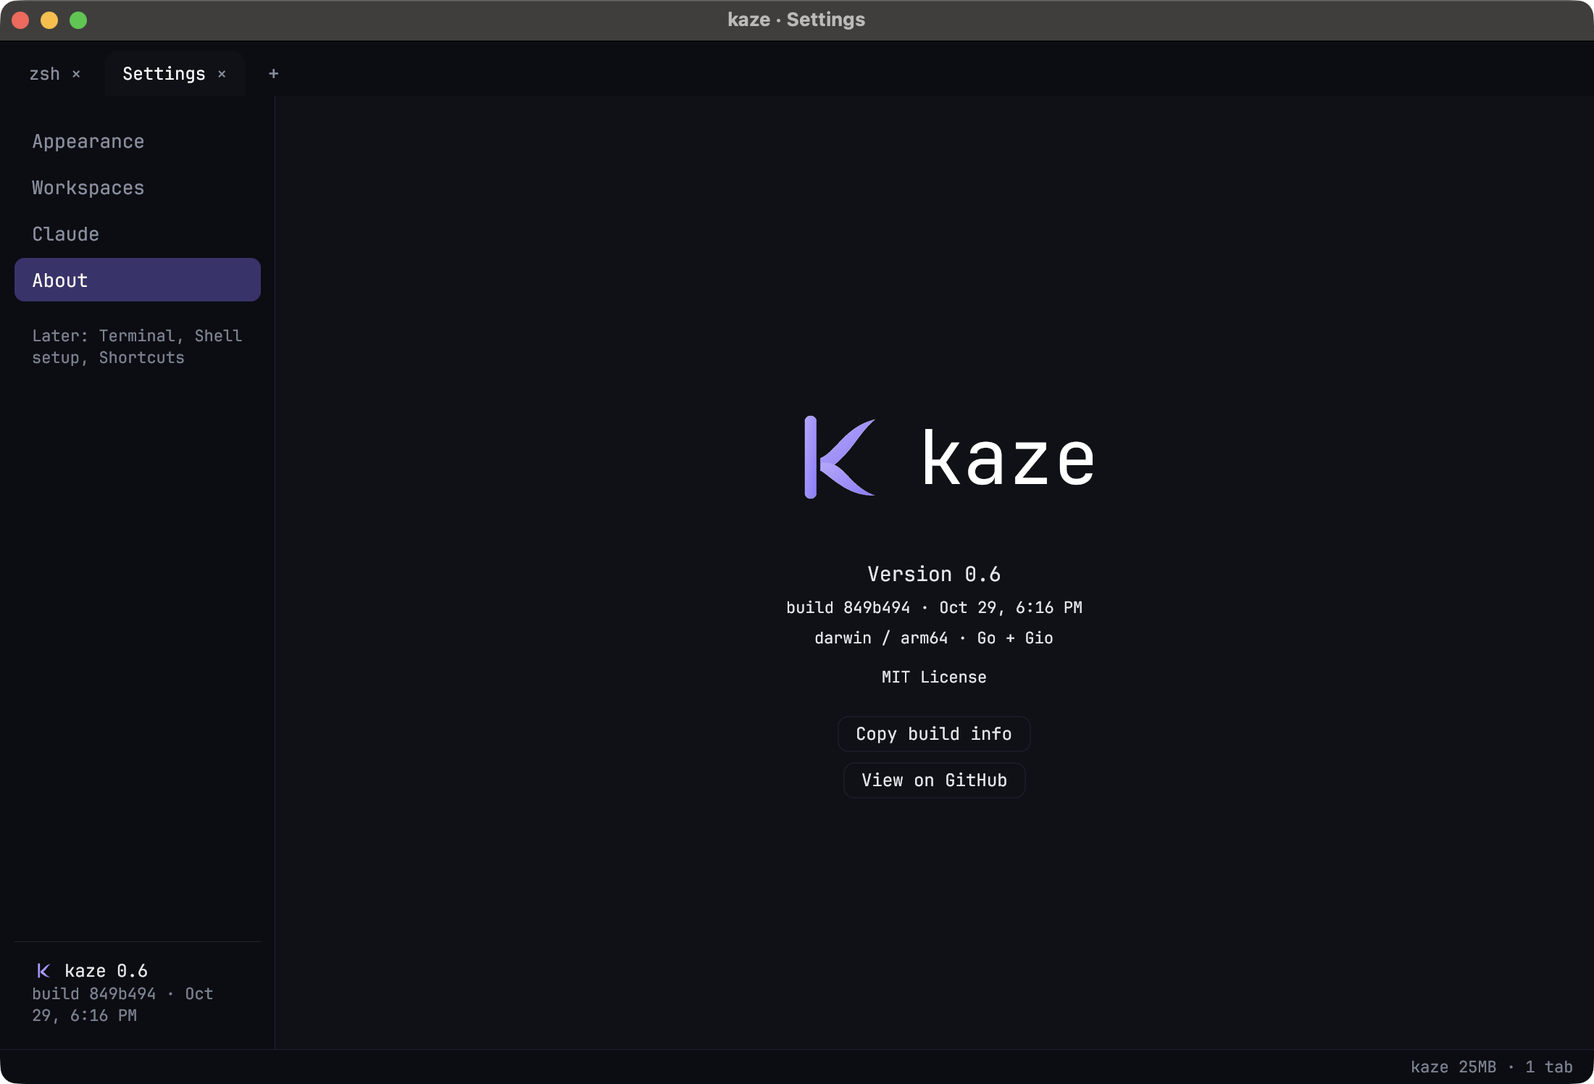
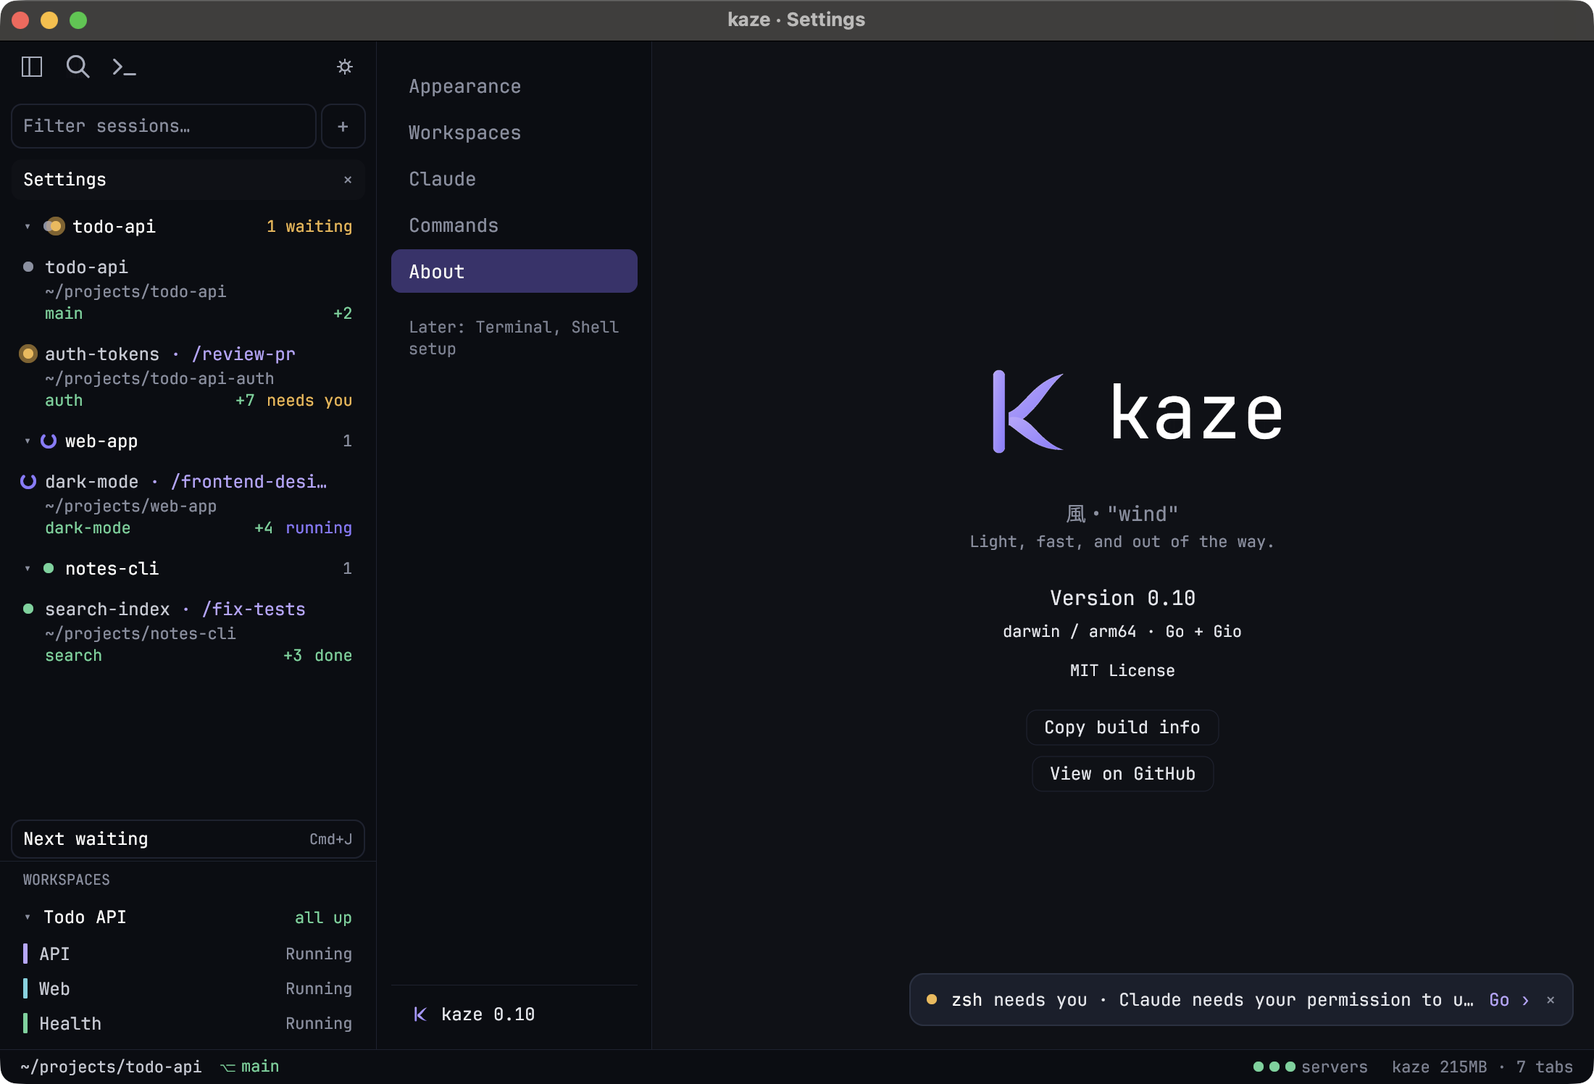
docs(site): Show the session sidebar, floating panes, scratch shell and palette

diff --git a/docs/index.html b/docs/index.html
@@ -4,8 +4,8 @@
   <meta charset="utf-8">
   <meta name="viewport" content="width=device-width, initial-scale=1">
   <meta name="color-scheme" content="dark">
-  <title>Kaze — Your whole workspace, one terminal</title>
-  <meta name="description" content="A small, open-source terminal for Windows and macOS. Launch project workspaces, follow Claude Code sessions, and know when you’re needed.">
+  <title>Kaze — Every Claude session, one terminal</title>
+  <meta name="description" content="A small, open-source terminal for macOS and Windows, built around Claude Code. A sidebar of your sessions, floating panes for your servers, and one key to find anything.">
   <link rel="icon" href="site-assets/kaze-icon.svg">
   <link rel="stylesheet" href="site-assets/site.css">
 </head>
@@ -14,24 +14,66 @@
 <header class="site-header">
   <div class="header-inner wrap">
     <a class="brand" href="#main" aria-label="Kaze home"><img src="site-assets/kaze-icon.svg" alt="" width="32" height="32"><span>kaze</span></a>
-    <nav aria-label="Main navigation"><a href="#workspaces">Workspaces</a><a href="#install">Build</a><a class="source-link" href="https://github.com/patrick-gogo/kaze-terminal">GitHub <span aria-hidden="true">↗</span></a></nav>
+    <nav aria-label="Main navigation"><a href="#sessions">Features</a><a href="#workspaces">Workspaces</a><a href="#install">Build</a><a class="source-link" href="https://github.com/patrick-gogo/kaze-terminal">GitHub <span aria-hidden="true">↗</span></a></nav>
   </div>
 </header>
 <main id="main">
   <section class="hero wrap" aria-labelledby="hero-title">
-    <h1 id="hero-title">One terminal.<br><span>Your whole workspace.</span></h1>
-    <p class="hero-copy">Open your project. Start your tools. Stay with the work.<br class="desktop-break"> A small terminal with saved workspaces and a soft spot for Claude Code.</p>
+    <h1 id="hero-title">Every Claude session.<br><span>One quiet terminal.</span></h1>
+    <p class="hero-copy">See which session needs you, which one is working and which one is done.<br class="desktop-break"> Keep your servers floating close by. Find anything with one key.</p>
     <div class="hero-actions"><a class="button primary" href="#install" data-platform="mac">Build for macOS <span aria-hidden="true">↗</span></a><a class="button secondary" href="https://github.com/patrick-gogo/kaze-terminal">View source <span aria-hidden="true">↗</span></a></div>
     <p class="platform-note">Also on <a href="#install" data-platform="windows">Windows</a><span aria-hidden="true">/</span>Go + Gio<span aria-hidden="true">/</span>MIT licensed</p>
-    <figure class="product">
-      <div class="product-caption"><div class="capture-switcher" role="group" aria-label="Product screenshots"><button type="button" data-shot="terminal" aria-pressed="true">Terminal</button><button type="button" data-shot="workspaces" aria-pressed="false">Workspaces</button><button type="button" data-shot="about" aria-pressed="false">About</button></div><span id="capture-description" aria-live="polite">Workspace tabs on macOS</span></div>
-      <div class="screenshot"><img id="product-shot" src="site-assets/kaze-terminal.png" alt="Kaze running on macOS: a four-tab demo workspace showing git history, passing Go tests and a file listing" width="2200" height="1496" fetchpriority="high"></div>
-      <figcaption>Captured from Kaze 0.6 on macOS. Demo workspace with real local command output.</figcaption>
+    <figure class="product" id="product">
+      <div class="product-caption"><div class="capture-switcher" role="group" aria-label="Product screenshots"><button type="button" data-shot="sessions" aria-pressed="true">Sessions</button><button type="button" data-shot="palette" aria-pressed="false">Palette</button><button type="button" data-shot="scratch" aria-pressed="false">Scratch shell</button><button type="button" data-shot="workspaces" aria-pressed="false">Workspaces</button><button type="button" data-shot="about" aria-pressed="false">About</button></div><span id="capture-description" aria-live="polite">The session sidebar with a server floating over a session</span></div>
+      <div class="screenshot"><img id="product-shot" src="site-assets/kaze-sessions.png" alt="Kaze on macOS: a sidebar of sessions marked needs you, running and done, with an API server's log floating over the todo-api session" width="2200" height="1496" fetchpriority="high"></div>
+      <figcaption>Captured from Kaze 0.10 on macOS, with demo projects and real local command output. <a class="caption-link" href="https://github.com/patrick-gogo/kaze-terminal/blob/main/docs/site-assets/SCREENSHOTS.md">How these were taken</a></figcaption>
     </figure>
   </section>
 
+  <section class="feature-section wrap" id="sessions" aria-labelledby="sessions-title">
+    <div class="section-intro"><h2 id="sessions-title">Built around the agent.<br><span>Still just a terminal.</span></h2><p>Run Claude Code in as many sessions as you like. Kaze keeps track,<br class="desktop-break"> so you only look when something needs you.</p></div>
+    <div class="feature-grid">
+      <article>
+        <span class="feature-symbol" aria-hidden="true">◐</span>
+        <h3>A sidebar of sessions.</h3>
+        <p>Sessions group by repo, worktrees included. Each row shows its folder, branch, the lines changed and the slash command it runs, plus a plain <b class="state needs">needs you</b>, <b class="state running">running</b> or <b class="state done">done</b>.</p>
+        <button type="button" class="show-shot" data-show="sessions">See the sidebar <span aria-hidden="true">↑</span></button>
+      </article>
+      <article>
+        <span class="feature-symbol" aria-hidden="true">⇥</span>
+        <h3>Jump to what’s waiting.</h3>
+        <p>Next waiting takes you to the next session that needs an answer, in sidebar order. A toast and an optional chime tell you when Claude asks, even while you work elsewhere.</p>
+        <a href="https://github.com/patrick-gogo/kaze-terminal#alerts-claude-code-hooks">Set up the hooks <span aria-hidden="true">↗</span></a>
+      </article>
+      <article>
+        <span class="feature-symbol" aria-hidden="true">▣</span>
+        <h3>Floating panes.</h3>
+        <p>Watch a server’s log without leaving your Claude session. Click a workspace member and it floats over the session: drag it, resize it, type into it, or expand it to the main view.</p>
+        <button type="button" class="show-shot" data-show="sessions">See a floating pane <span aria-hidden="true">↑</span></button>
+      </article>
+      <article>
+        <span class="feature-symbol" aria-hidden="true">›_</span>
+        <h3>A scratch shell, per session.</h3>
+        <p>Press <kbd>Ctrl</kbd> <kbd>`</kbd> for a quick shell in the session’s folder. Press it again to hide it; it keeps running, with its screen, until the session closes.</p>
+        <button type="button" class="show-shot" data-show="scratch">See the scratch shell <span aria-hidden="true">↑</span></button>
+      </article>
+      <article>
+        <span class="feature-symbol" aria-hidden="true">⌕</span>
+        <h3>One key finds everything.</h3>
+        <p><kbd>⌘</kbd> <kbd>K</kbd> opens the palette: waiting sessions first, then every session and server, your Claude Code skills and slash commands, and Kaze’s own actions.</p>
+        <button type="button" class="show-shot" data-show="palette">See the palette <span aria-hidden="true">↑</span></button>
+      </article>
+      <article>
+        <span class="feature-symbol" aria-hidden="true">▤</span>
+        <h3>Context in the status bar.</h3>
+        <p>Your folder and branch, your servers at a glance, and optional Claude plan and context usage. The useful details stay out of your output.</p>
+        <a href="https://github.com/patrick-gogo/kaze-terminal#claude-usage-in-the-status-bar">See the usage setup <span aria-hidden="true">↗</span></a>
+      </article>
+    </div>
+  </section>
+
   <section class="workspace-section wrap" id="workspaces" aria-labelledby="workspace-title">
-    <div class="section-intro"><h2 id="workspace-title">Your project has a routine.<br><span>Save it once.</span></h2><p>The same folders. The same servers. The same log tail.<br>Turn your startup routine into a workspace, then run it from Settings.</p></div>
+    <div class="section-intro"><h2 id="workspace-title">Your project has a routine.<br><span>Save it once.</span></h2><p>The same folders. The same servers. The same log tail.<br>Turn your startup routine into a workspace, then run it from Settings or the palette.</p></div>
     <div class="workspace-example">
       <div class="example-heading"><span>Example workspace</span><span class="mono">my-project <span aria-hidden="true">/</span> 4 tabs</span></div>
       <ol class="recipe">
@@ -40,28 +82,28 @@
         <li><span class="recipe-index">03</span><div><h3>Frontend</h3><span class="folder">~/src/project/web</span></div><code>npm run dev</code><span class="wait">Wait for port 8000</span></li>
         <li><span class="recipe-index">04</span><div><h3>Logs</h3><span class="folder">~/src/project</span></div><code>docker compose logs -f api</code><span class="wait">Wait for port 8000</span></li>
       </ol>
-      <p class="example-foot">One group in your tab strip. Run it again to return to your open tabs.</p>
+      <p class="example-foot">Each member gets a line in the sidebar and a dot in the status bar. Click one to float it over your session.</p>
     </div>
   </section>
 
-  <section class="details wrap" aria-label="Terminal features">
-    <article><span class="feature-symbol" aria-hidden="true">↗</span><h3>Come back when it matters.</h3><p>Claude needs an answer? Its tab gets a mark. A turn finishes? You’ll know. Optional chimes keep you in the loop while you work elsewhere.</p><a href="https://github.com/patrick-gogo/kaze-terminal#alerts-claude-code-hooks">Set up Claude alerts <span aria-hidden="true">↗</span></a></article>
-    <article><span class="feature-symbol" aria-hidden="true">▤</span><h3>Keep the context close.</h3><p>Your folder and branch, plus optional Claude plan and context usage. The useful details stay in the status bar, out of your output.</p><a href="https://github.com/patrick-gogo/kaze-terminal#claude-usage-in-the-status-bar">See the usage setup <span aria-hidden="true">↗</span></a></article>
-    <article><span class="feature-symbol" aria-hidden="true">⌘</span><h3>Make it feel like yours.</h3><p>Five themes. Live font, spacing, and cursor controls. Change them in Settings, or edit the small config file directly.</p><a href="https://github.com/patrick-gogo/kaze-terminal#settings">Explore Settings <span aria-hidden="true">↗</span></a></article>
+  <section class="details wrap" aria-label="More features">
+    <article><span class="feature-symbol" aria-hidden="true">⌘</span><h3>Make it feel like yours.</h3><p>Five themes. Live font, spacing and cursor controls. Change them in Settings, or edit the small config file directly.</p><a href="https://github.com/patrick-gogo/kaze-terminal#settings">Explore Settings <span aria-hidden="true">↗</span></a></article>
+    <article><span class="feature-symbol" aria-hidden="true">✓</span><h3>Checks your Claude setup.</h3><p>Settings shows which Claude Code hooks are missing and adds them for you, after showing the change and backing up your file.</p><a href="https://github.com/patrick-gogo/kaze-terminal#claude-code-setup-check">See the setup check <span aria-hidden="true">↗</span></a></article>
+    <article><span class="feature-symbol" aria-hidden="true">⌨</span><h3>Your keys, your way.</h3><p>Every shortcut can be changed in the config, and Settings lists the commands so far with their keys.</p><a href="https://github.com/patrick-gogo/kaze-terminal#shortcuts">See the shortcuts <span aria-hidden="true">↗</span></a></article>
   </section>
 
-  <section class="engineering wrap" aria-labelledby="engineering-title"><div><h2 id="engineering-title">Quiet, down to the renderer.</h2><p>Kaze redraws the cells that changed and caches its glyphs. When nothing changes, there’s no frame to draw.</p></div><div class="engineering-facts"><span><b>Go + Gio</b>Windows and macOS</span><span><b>Open source</b>Small enough to make your own</span></div></section>
+  <section class="engineering wrap" aria-labelledby="engineering-title"><div><h2 id="engineering-title">Quiet, down to the renderer.</h2><p>Kaze redraws the cells that changed and caches its glyphs. When nothing changes, there’s no frame to draw, floating panes included.</p></div><div class="engineering-facts"><span><b>Go + Gio</b>macOS and Windows</span><span><b>Open source</b>Small enough to make your own</span></div></section>
 
   <section class="install wrap" id="install" aria-labelledby="install-title">
-    <div class="install-intro"><h2 id="install-title">Make room for<br><span>your next project.</span></h2><p>Build Kaze from source. You’ll need Go 1.27 or newer; macOS also needs the Xcode Command Line Tools.</p><p class="release-note">Windows is used daily. macOS is an early preview, with fixes in progress.</p><a class="inline-link" href="https://github.com/patrick-gogo/kaze-terminal/issues">Follow development <span aria-hidden="true">↗</span></a></div>
+    <div class="install-intro"><h2 id="install-title">Make room for<br><span>your next project.</span></h2><p>Build Kaze from source. You’ll need Go 1.27 or newer; macOS also needs the Xcode Command Line Tools.</p><p class="release-note">Used every day on macOS and Windows. A few Mac touches are still to come.</p><a class="inline-link" href="https://github.com/patrick-gogo/kaze-terminal/issues">Follow development <span aria-hidden="true">↗</span></a></div>
     <div class="installer">
       <div class="platform-tabs" role="tablist" aria-label="Build platform"><button id="tab-mac" type="button" role="tab" aria-selected="true" aria-controls="panel-mac" tabindex="0">macOS</button><button id="tab-windows" type="button" role="tab" aria-selected="false" aria-controls="panel-windows" tabindex="-1">Windows</button></div>
       <div class="clone-block"><div class="command-heading"><span>Clone the repository</span><button type="button" data-copy="git clone https://github.com/patrick-gogo/kaze-terminal.git&#10;cd kaze-terminal" aria-label="Copy clone commands">Copy</button></div><pre><code>git clone https://github.com/patrick-gogo/kaze-terminal.git
 cd kaze-terminal</code></pre></div>
       <div id="panel-mac" role="tabpanel" aria-labelledby="tab-mac"><div class="command-heading"><span>Build and open the app</span><button type="button" data-copy="./tools/package-macos.sh&#10;open dist/Kaze.app" aria-label="Copy macOS build commands">Copy</button></div><pre><code>./tools/package-macos.sh
-open dist/Kaze.app</code></pre><p class="installer-tip">Settings: <kbd>⌘</kbd> <kbd>,</kbd></p></div>
+open dist/Kaze.app</code></pre><p class="installer-tip">Palette: <kbd>⌘</kbd> <kbd>K</kbd> · Scratch shell: <kbd>Ctrl</kbd> <kbd>`</kbd> · Settings: <kbd>⌘</kbd> <kbd>,</kbd></p></div>
       <div id="panel-windows" role="tabpanel" aria-labelledby="tab-windows" hidden><div class="command-heading"><span>Build and run in PowerShell</span><button type="button" data-copy='go build -ldflags "-H=windowsgui" -o kaze.exe ./cmd/kaze&#10;.\kaze.exe' aria-label="Copy Windows build commands">Copy</button></div><pre><code>go build -ldflags "-H=windowsgui" -o kaze.exe ./cmd/kaze
-.\kaze.exe</code></pre><p class="installer-tip">Settings: <kbd>Ctrl</kbd> <kbd>,</kbd></p></div>
+.\kaze.exe</code></pre><p class="installer-tip">Palette: <kbd>Ctrl</kbd> <kbd>Shift</kbd> <kbd>K</kbd> · Scratch shell: <kbd>Ctrl</kbd> <kbd>Shift</kbd> <kbd>`</kbd> · Settings: <kbd>Ctrl</kbd> <kbd>,</kbd></p></div>
       <a class="build-docs" href="https://github.com/patrick-gogo/kaze-terminal#build-and-run-from-a-clone">Full build instructions <span aria-hidden="true">↗</span></a>
     </div>
   </section>

diff --git a/docs/site-assets/site.js b/docs/site-assets/site.js
@@ -38,17 +38,25 @@ document.querySelectorAll('[data-copy]').forEach(button => {
 });
 
 const captures = {
-  terminal: { alt: 'Kaze 0.6 running on macOS with a four-tab workspace menu and real Go test output', caption: 'Workspace tabs on macOS' },
-  workspaces: { alt: 'The real Kaze Workspaces settings page with a saved four-tab demo recipe and startup selection', caption: 'Workspaces settings on macOS' },
-  about: { alt: 'The real Kaze About page showing the logo, version 0.6, build details, and copy button', caption: 'About Kaze 0.6 on macOS' }
+  sessions: { alt: 'Kaze on macOS: a sidebar of sessions marked needs you, running and done, with an API server\'s log floating over the todo-api session', caption: 'The session sidebar with a server floating over a session' },
+  palette: { alt: 'The Kaze palette listing a waiting session, every session and server, and Claude Code skills', caption: 'The palette, opened with Cmd+K' },
+  scratch: { alt: 'A scratch shell floating over the todo-api session, showing git status and git diff', caption: 'A scratch shell in the session\'s folder' },
+  workspaces: { alt: 'The Kaze Workspaces settings page with a running three-tab demo workspace', caption: 'Workspaces settings on macOS' },
+  about: { alt: 'The Kaze About page showing the logo, version 0.10 and build details', caption: 'About Kaze 0.10 on macOS' }
 };
+function showShot(shot) {
+  const image = document.getElementById('product-shot');
+  image.src = `site-assets/kaze-${shot}.png`;
+  image.alt = captures[shot].alt;
+  document.getElementById('capture-description').textContent = captures[shot].caption;
+  document.querySelectorAll('[data-shot]').forEach(item => item.setAttribute('aria-pressed', String(item.dataset.shot === shot)));
+}
 document.querySelectorAll('[data-shot]').forEach(button => {
+  button.addEventListener('click', () => showShot(button.dataset.shot));
+});
+document.querySelectorAll('[data-show]').forEach(button => {
   button.addEventListener('click', () => {
-    const shot = button.dataset.shot;
-    const image = document.getElementById('product-shot');
-    image.src = `site-assets/kaze-${shot}.png`;
-    image.alt = captures[shot].alt;
-    document.getElementById('capture-description').textContent = captures[shot].caption;
-    document.querySelectorAll('[data-shot]').forEach(item => item.setAttribute('aria-pressed', String(item === button)));
+    showShot(button.dataset.show);
+    document.getElementById('product').scrollIntoView({ block: 'start' });
   });
 });

diff --git a/docs/site-assets/site.css b/docs/site-assets/site.css
@@ -8,3 +8,7 @@
 @media(prefers-reduced-motion:reduce){html{scroll-behavior:auto}*{transition:none!important}}
 
 .capture-switcher{display:flex;gap:5px}.capture-switcher button{border:1px solid transparent;background:transparent;color:#898390;padding:5px 10px;border-radius:5px;font-size:10px}.capture-switcher button[aria-pressed=true]{background:#201c29;border-color:#3c324d;color:#e3d8f3}.capture-switcher button:hover{color:#eee5f7}.product-caption>span{font-size:10px}@media(max-width:500px){.product-caption{gap:10px;align-items:flex-start;flex-direction:column}.product-caption>span{font-size:9px}.capture-switcher button{padding:5px 9px}}
+
+.caption-link{color:#a39cb1;text-decoration:underline;text-underline-offset:3px;margin-left:6px}.feature-section{padding-top:125px}.feature-grid{display:grid;grid-template-columns:repeat(3,minmax(0,1fr));margin-top:50px;border:1px solid var(--line);border-radius:10px;background:var(--surface);overflow:hidden}.feature-grid article{padding:32px 30px 30px;border-right:1px solid var(--line);border-bottom:1px solid var(--line);display:flex;flex-direction:column;align-items:flex-start}.feature-grid article:nth-child(3n){border-right:0}.feature-grid article:nth-last-child(-n+3){border-bottom:0}.feature-grid h3{font-size:17px;letter-spacing:-.4px;font-weight:550;margin-bottom:12px}.feature-grid p{color:var(--muted);font-size:13px;line-height:1.85;flex:1}.feature-grid a,.show-shot{margin-top:20px;font-size:11px;color:#c4bad5;background:none;border:0;padding:0}.show-shot:hover{color:#fff}.state{font:600 11px JetBrains,monospace}.state.needs{color:#e8b75a}.state.running{color:#a99af0}.state.done{color:#6fd39a}.feature-grid kbd{font-size:10px}
+@media(max-width:1000px){.feature-grid{grid-template-columns:repeat(2,minmax(0,1fr))}.feature-grid article:nth-child(3n){border-right:1px solid var(--line)}.feature-grid article:nth-child(2n){border-right:0}.feature-grid article:nth-last-child(-n+3){border-bottom:1px solid var(--line)}.feature-grid article:nth-last-child(-n+2){border-bottom:0}}
+@media(max-width:680px){.feature-section{padding-top:75px}.feature-grid{grid-template-columns:minmax(0,1fr);margin-top:30px}.feature-grid article,.feature-grid article:nth-child(3n),.feature-grid article:nth-last-child(-n+3){border-right:0;border-bottom:1px solid var(--line);padding:24px 18px}.feature-grid article:last-child{border-bottom:0}.capture-switcher{flex-wrap:wrap}}

diff --git a/docs/site-assets/SCREENSHOTS.md b/docs/site-assets/SCREENSHOTS.md
@@ -1,9 +1,28 @@
 # Product captures
 
-Native macOS window captures taken October 29, 2026, from Kaze 0.6, main build 849b494.
+Native macOS window captures taken October 31, 2026, from Kaze 0.10 (main build 28517a2).
 
-- `kaze-terminal.png`: retaken October 30, 2026 from a demo `todo-api` project in a throwaway home folder (demo git author, example.com module): `make check` runs git log, Go tests and ls. No personal or work names appear.
-- `kaze-workspaces.png`: the Workspaces section displaying a saved demo recipe. Its commands are configuration, not evidence that Claude was run.
+- `kaze-sessions.png`: the session sidebar with three demo repos (one a git worktree), the "Todo API"
+  workspace running, and its API member floating over the `todo-api` session.
+- `kaze-palette.png`: the palette opened over the same session. The skills are five demo
+  `SKILL.md` files in the throwaway home folder.
+- `kaze-scratch.png`: the scratch shell over the `todo-api` session, showing `git status -sb` and
+  `git diff --stat`.
+- `kaze-workspaces.png`: the Workspaces section of Settings with the demo workspace running.
 - `kaze-about.png`: the About section displaying the logo and build information.
 
-Captured directly with macOS `screencapture`, without desktop shadows or surrounding applications. No generated or retouched UI. A temporary build overlay selected the initial page and isolated the demo configuration; it did not change the UI renderer. The fixture and overlay are not part of shipped application code. The owner's settings and workspace files were not changed.
+How they were made:
+
+- Everything ran in a throwaway home folder with demo projects (demo git author, example.com
+  module). No personal or work names appear. The owner's settings and workspace files were not
+  changed.
+- The terminal output is real: `make check` (git log, Go tests, ls), git commands, and two
+  `python3 -m http.server` processes with a `curl` loop that makes the API log.
+- Claude Code was not run. The sidebar states (needs you, running, done), the slash commands and
+  the alert toast come from demo shell scripts calling Kaze's real hook command (`kaze notify
+  prompt`, `notify needs`, `notify done`) with the same input Claude Code's hooks send.
+- A temporary build overlay (not part of shipped code) opened the demo sessions, floated the pane,
+  showed the scratch shell, and opened the palette or a Settings page. It did not change the UI
+  renderer. Takes with stray keystrokes were thrown away and retaken. No generated or retouched UI.
+- Captured directly with macOS `screencapture`, without desktop shadows or surrounding
+  applications.
